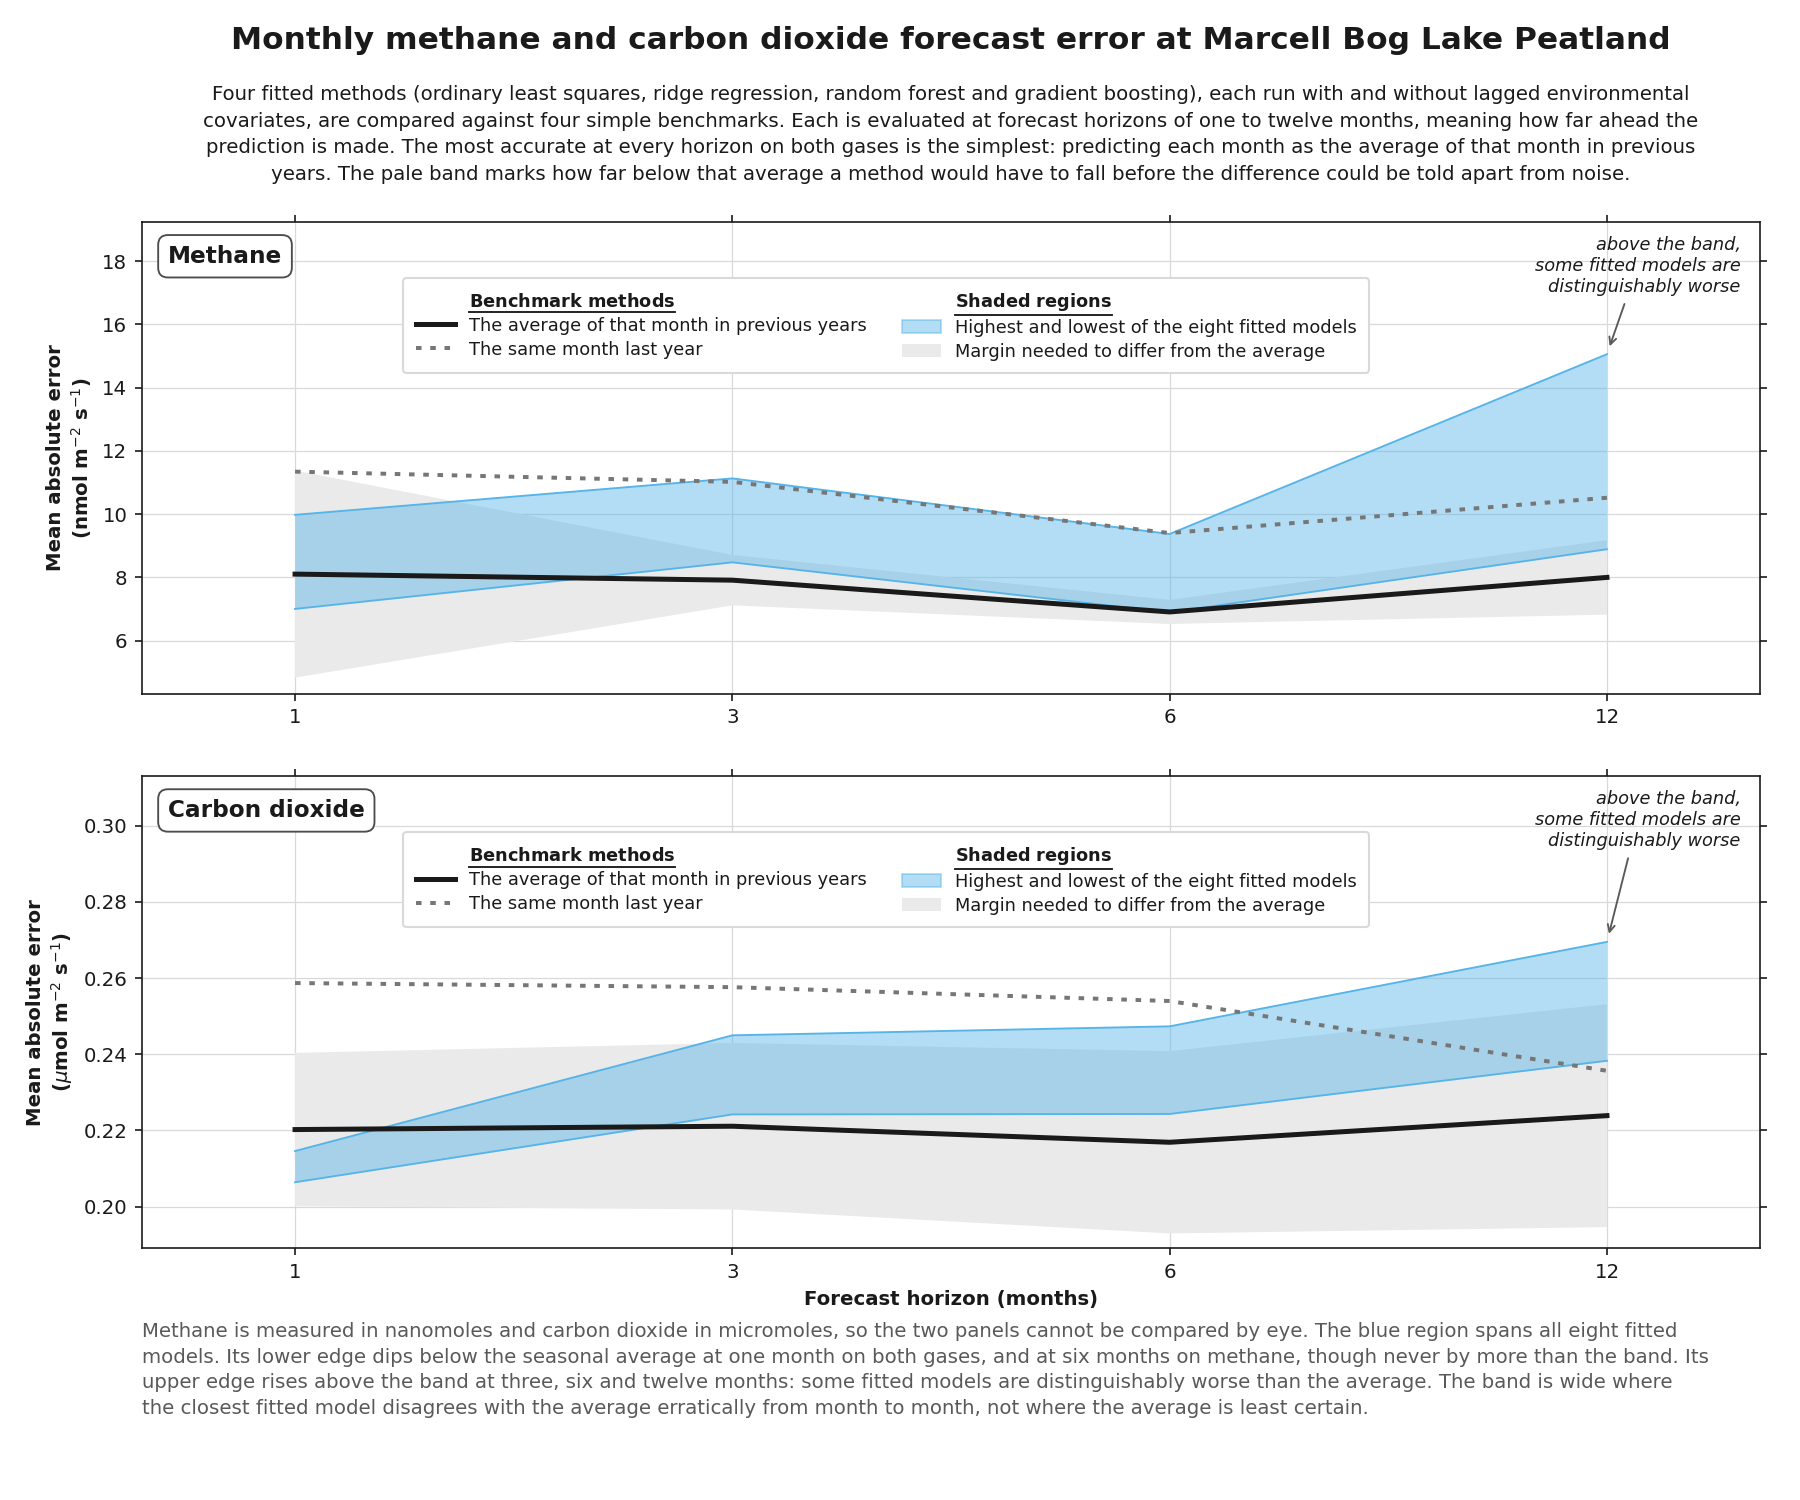
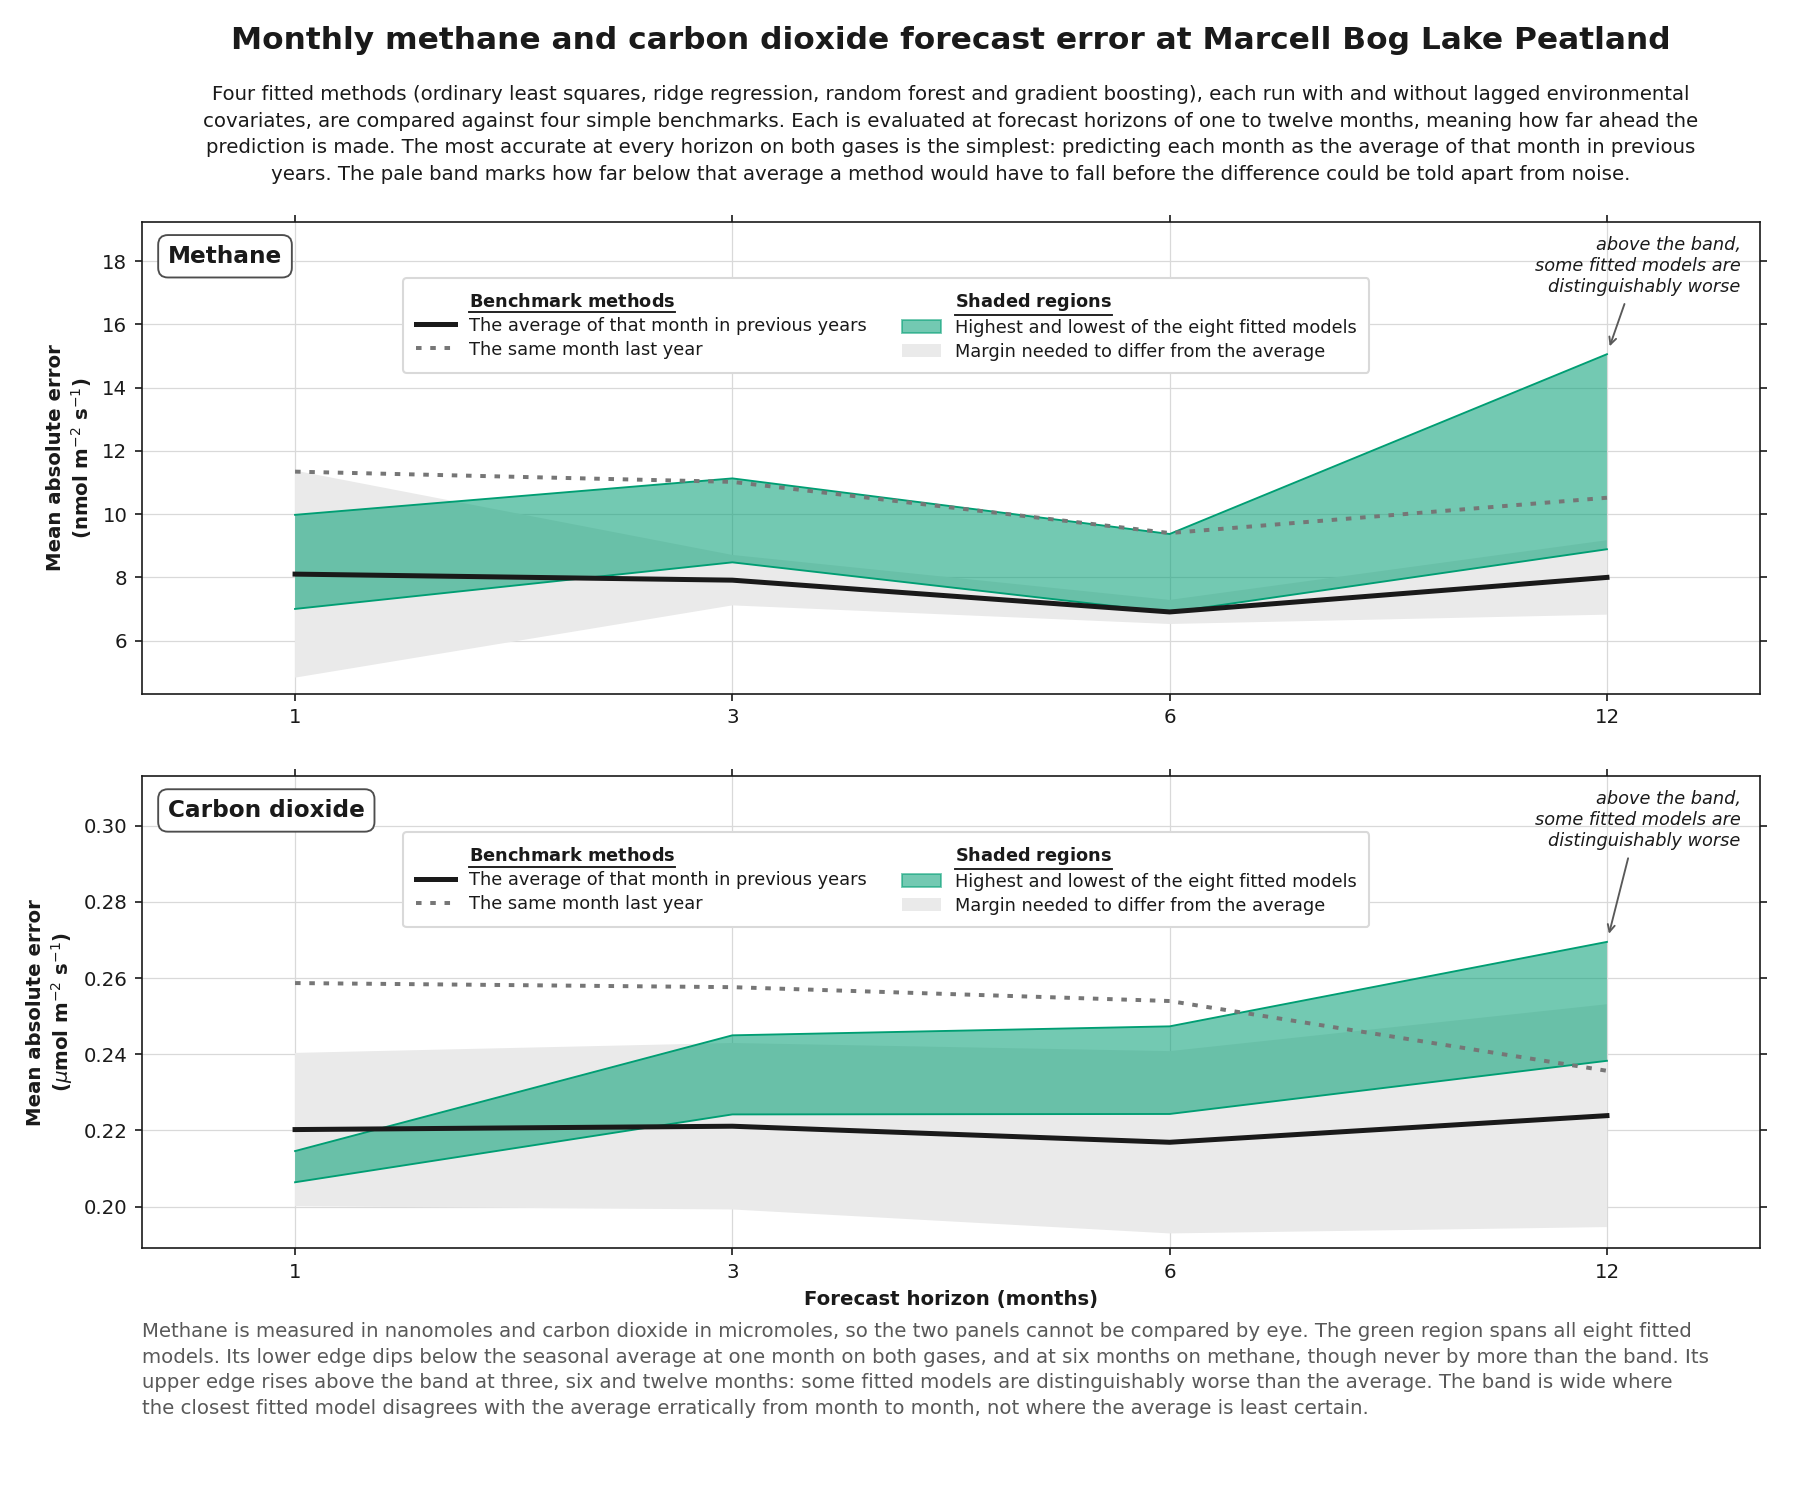
Move the fitted range to bluish green

diff --git a/src/study/plotstyle.py b/src/study/plotstyle.py
@@ -41,25 +41,28 @@ from ingest import paths
 INSIDE = "#0072B2"
 OUTSIDE = "#D55E00"
 
-#: The fitted models in the forecast comparison. Okabe-Ito sky blue, chosen by
-#: measurement rather than by taste: its worst separation from either support
-#: hue is 25.0 under simulated deficiency, and from every gray on its own panel
-#: at least 33.0, against the 2.3 at which two colors become distinguishable.
-#: Reddish purple was rejected at 0.9 against `OUTSIDE` under tritanopia, which
-#: is the same failure as the tab10 orange against green in Irvin et al. (2021)
-#: figure 9, measured here at 5.6 under protanopia.
-FITTED = "#56B4E9"
-#: Alpha for the fitted envelope. Set so the filled region separates from the
-#: significance band in grayscale as well as in hue: 0.680 against 0.823 in
-#: relative luminance, with a color difference of 15.5 under the worst deficiency.
-FITTED_FILL_ALPHA = 0.45
+#: The fitted models in the two forecast figures. Okabe-Ito bluish green, chosen
+#: by measurement. Sky blue was used first and had to go: blue at `INSIDE` means
+#: inside or retained across the finished figures, and a second blue meaning
+#: something unrelated is the collision these rules exist to prevent. Bluish green
+#: clears `INSIDE` by 20.9 and `OUTSIDE` by 35.9 under the worst simulated
+#: deficiency. Reddish purple was measured and rejected at **0.9 against
+#: `OUTSIDE` under tritanopia**: the band edges and the legend patch are drawn in
+#: the pure hue, so a reader would meet the same color carrying two meanings.
+FITTED = "#009E73"
+#: Alpha for the fitted fill. Heavier than the sky blue it replaces, because a
+#: pale green sits close to the apparatus grays: at this weight the fill clears
+#: every gray on the panel by 12.1 and by 0.197 in relative luminance, where sky
+#: blue cleared the grid by 0.014 and was all but invisible in grayscale.
+FITTED_FILL_ALPHA = 0.55
 
 #: The uncertainty in an observed monthly mean, drawn as a band in the line's own
-#: ink rather than as error bars, following Deventer et al. (2019) figure 10. The
-#: alpha is measured, not chosen: it separates from the fitted fill by 0.160 in
-#: relative luminance and 17.8 under the worst simulated deficiency, and where the
-#: two overlap the result is distinct from each of them.
-OBSERVED_BAND_ALPHA = 0.28
+#: ink rather than as error bars, following Deventer et al. (2019) figure 10.
+#: Light enough that the series reads through it on carbon dioxide, where the band
+#: is wide: it separates from the fitted fill by 0.215 in relative luminance and
+#: 12.7 under the worst simulated deficiency, and where the two overlap the result
+#: is distinct from each of them.
+OBSERVED_BAND_ALPHA = 0.16
 
 #: The region within which a method is not distinguishable from the benchmark.
 #: Apparatus rather than a category, so it is achromatic and lighter than the

diff --git a/src/study/figures.py b/src/study/figures.py
@@ -361,7 +361,7 @@ FORECAST_TEXT = ps.FigureText(
     ),
     description=(
         "Methane is measured in nanomoles and carbon dioxide in micromoles, so "
-        "the two panels cannot be compared by eye. The blue region spans all "
+        "the two panels cannot be compared by eye. The green region spans all "
         "eight fitted models. Its lower edge dips below the seasonal average at "
         "one month on both gases, and at six months on methane, though never by "
         "more than the band. Its upper edge rises above the band at three, six "
@@ -627,7 +627,7 @@ FLUX_TEXT = ps.FigureText(
         "uncertainty in that average, drawn as two standard errors. Two "
         "predictions are drawn against it, both made a "
         "month in advance: the seasonal average, which uses the mean of that month "
-        "across previous years, and a blue band spanning the highest and lowest of "
+        "across previous years, and a green band spanning the highest and lowest of "
         "eight fitted models. Neither is available for most of the record, since "
         "the models need several years of history before they can forecast at all. "
         "The shaded years mark where predictions exist."
@@ -642,7 +642,7 @@ FLUX_TEXT = ps.FigureText(
         "models miss is not when the season happens but how large it will be in a "
         "weak year. 2021, the weakest summer, lies outside the evaluated window "
         "and was never forecast. On carbon dioxide the eight models disagree by "
-        "less than half the uncertainty in the measurement, which is why the blue "
+        "less than half the uncertainty in the measurement, which is why the green "
         "band sits inside the black one."
     ),
 )

diff --git a/figures/README_fragments.md b/figures/README_fragments.md
@@ -28,12 +28,12 @@ Each marker is one year's emission in grams of carbon per square meter, from rel
 
 **Four fitted methods (ordinary least squares, ridge regression, random forest and gradient boosting), each run with and without lagged environmental covariates, are compared against four simple benchmarks. Each is evaluated at forecast horizons of one to twelve months, meaning how far ahead the prediction is made. The most accurate at every horizon on both gases is the simplest: predicting each month as the average of that month in previous years. The pale band marks how far below that average a method would have to fall before the difference could be told apart from noise.**
 
-Methane is measured in nanomoles and carbon dioxide in micromoles, so the two panels cannot be compared by eye. The blue region spans all eight fitted models. Its lower edge dips below the seasonal average at one month on both gases, and at six months on methane, though never by more than the band. Its upper edge rises above the band at three, six and twelve months: some fitted models are distinguishably worse than the average. The band is wide where the closest fitted model disagrees with the average erratically from month to month, not where the average is least certain.
+Methane is measured in nanomoles and carbon dioxide in micromoles, so the two panels cannot be compared by eye. The green region spans all eight fitted models. Its lower edge dips below the seasonal average at one month on both gases, and at six months on methane, though never by more than the band. Its upper edge rises above the band at three, six and twelve months: some fitted models are distinguishably worse than the average. The band is wide where the closest fitted model disagrees with the average erratically from month to month, not where the average is least certain.
 
 ### Observed and predicted monthly flux at Marcell Bog Lake Peatland
 
 ![Observed and predicted monthly flux at Marcell Bog Lake Peatland](figures/observed_and_predicted.png)
 
-**Each month's flux is measured as an average of the half-hourly readings taken that month, drawn here in black with a shaded band showing the uncertainty in that average, drawn as two standard errors. Two predictions are drawn against it, both made a month in advance: the seasonal average, which uses the mean of that month across previous years, and a blue band spanning the highest and lowest of eight fitted models. Neither is available for most of the record, since the models need several years of history before they can forecast at all. The shaded years mark where predictions exist.**
+**Each month's flux is measured as an average of the half-hourly readings taken that month, drawn here in black with a shaded band showing the uncertainty in that average, drawn as two standard errors. Two predictions are drawn against it, both made a month in advance: the seasonal average, which uses the mean of that month across previous years, and a green band spanning the highest and lowest of eight fitted models. Neither is available for most of the record, since the models need several years of history before they can forecast at all. The shaded years mark where predictions exist.**
 
-The predictions follow the seasonal cycle, rising and falling in step with the measurements. On methane their largest misses are usually over-predictions. In 12 of the 57 evaluated methane months the flux came in below every fitted model, and in nine of those below the seasonal average too. 2015 is the clearest example: the seasonal average predicted 94 nanomoles for July and the tower measured 40. What the models miss is not when the season happens but how large it will be in a weak year. 2021, the weakest summer, lies outside the evaluated window and was never forecast. On carbon dioxide the eight models disagree by less than half the uncertainty in the measurement, which is why the blue band sits inside the black one.
+The predictions follow the seasonal cycle, rising and falling in step with the measurements. On methane their largest misses are usually over-predictions. In 12 of the 57 evaluated methane months the flux came in below every fitted model, and in nine of those below the seasonal average too. 2015 is the clearest example: the seasonal average predicted 94 nanomoles for July and the tower measured 40. What the models miss is not when the season happens but how large it will be in a weak year. 2021, the weakest summer, lies outside the evaluated window and was never forecast. On carbon dioxide the eight models disagree by less than half the uncertainty in the measurement, which is why the green band sits inside the black one.

diff --git a/notes/study.md b/notes/study.md
@@ -1650,24 +1650,37 @@ against fitted contrast instead. The alternative, an entirely achromatic panel,
 was rejected because it carries two filled regions and a gray envelope beside a
 gray inferential band would be the one genuine confusion on it.
 
-| candidate | worst separation under simulated deficiency | against |
+| candidate | pure hue, worst separation under deficiency | against |
 |---|---|---|
-| **Sky blue `#56B4E9`** | **25.0** | `INSIDE`, deuteranopia |
-| Bluish green `#009E73` | 11.7 | gray `#767676`, deuteranopia |
+| **Bluish green `#009E73`** | **20.9** | `INSIDE`, deuteranopia |
+| Sky blue `#56B4E9` | 25.0 | `INSIDE`, deuteranopia |
 | Orange `#E69F00` | 14.9 | `OUTSIDE`, tritanopia |
 | Reddish purple `#CC79A7` | **0.9** | `OUTSIDE`, tritanopia |
 
-Two colors become distinguishable at about 2.3. **Reddish purple would have been
+Two colors become distinguishable at about 2.3. **Reddish purple would be
 invisible against the support orange for a tritanope**, which is the same failure
 as the tab10 orange against green in Irvin et al. (2021) figure 9, measured here
-at 5.6 under protanopia. Sky blue's worst case against any gray on its own panel
-is 33.0, and against either support hue 25.0. A test asserts every one of those
-separations.
+at 5.6 under protanopia. The band edges and the legend patch are drawn in the
+pure hue, so that collision would be on the page rather than hypothetical.
 
-The two filled regions also had to separate without hue. At the chosen fill alpha
-the envelope sits at 0.680 relative luminance against the band's 0.823, a gap of
-0.143, with the subject darker than the apparatus. A test asserts both the gap and
-its direction.
+**Sky blue was used first and was replaced.** It measured well against the greys
+in the abstract, but blue at `INSIDE` already means inside or retained across the
+water table figure, the site map and the reconstruction, and a second blue meaning
+something unrelated is the collision these rules exist to prevent. Re-measured
+against what is actually on these two panels rather than against a generic
+palette, it also failed in grayscale where it had not been checked: its fill sat
+**0.014 in relative luminance from the grid and 0.006 from the window edge**, all
+but invisible without color. Bluish green clears every gray on the panel by 12.1
+and by 0.197 in luminance, at a heavier fill weight of 0.55 chosen for that
+reason.
+
+The two filled regions also had to separate without hue. A test asserts the gap
+and its direction on the forecast figure, and on the flux figure the observed
+uncertainty band was lightened from 0.28 to 0.16 so the black series reads through
+it on carbon dioxide: the two fills then separate by **0.215 in relative luminance
+and 12.7 under the worst deficiency**, and their overlap is distinct from each of
+them. The band's width was not touched, since carbon dioxide is genuinely measured
+less precisely relative to its range.
 
 ### Observed against predicted, and two results that came out of drawing it
 
@@ -1711,7 +1724,7 @@ spread across the eight fitted models against the width of that band:
 **On carbon dioxide the eight models disagree with each other by less than half
 the uncertainty in the quantity they are predicting.** That is the non-separation
 finding arriving from a direction the error measures cannot reach, and it is
-visible on the panel without a number: the blue band sits inside the black one.
+visible on the panel without a number: the green band sits inside the black one.
 On methane the relationship inverts. The contrast is what the second panel is for.
 
 **A count in the description was wrong and is corrected.** The measured flux falls
